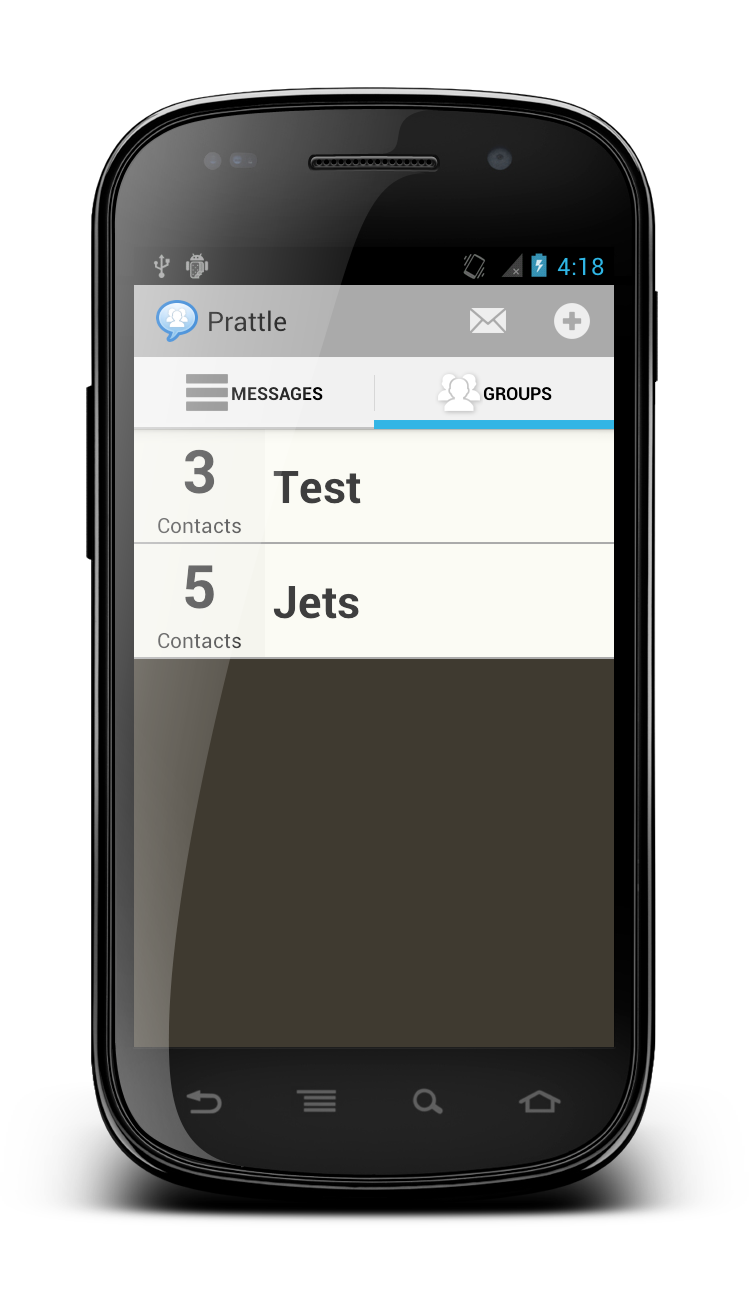
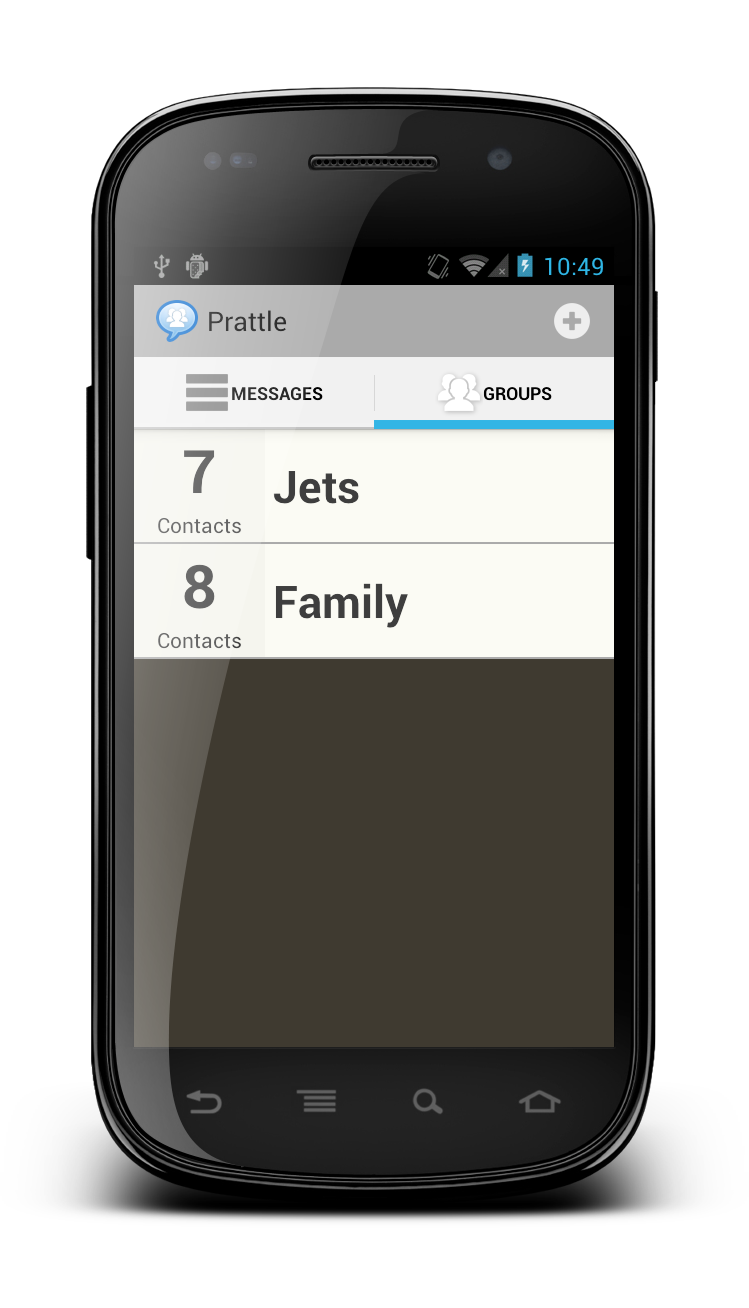
Update message list to sort message in descending order and take top 20 Removed action item for new message.  Force user to select a group and create new message from context menu. Updated screenshots

diff --git a/src/Resources/Resource.designer.cs b/src/Resources/Resource.designer.cs
@@ -115,11 +115,11 @@ namespace Prattle
 			// aapt resource value: 0x7f070008
 			public const int dayOfMonth = 2131165192;
 			
-			// aapt resource value: 0x7f070017
-			public const int deleteSMS = 2131165207;
-			
 			// aapt resource value: 0x7f070016
-			public const int editSMS = 2131165206;
+			public const int deleteSMS = 2131165206;
+			
+			// aapt resource value: 0x7f070015
+			public const int editSMS = 2131165205;
 			
 			// aapt resource value: 0x7f07000e
 			public const int envelope = 2131165198;
@@ -139,14 +139,11 @@ namespace Prattle
 			// aapt resource value: 0x7f070010
 			public const int menuCancelEdit = 2131165200;
 			
-			// aapt resource value: 0x7f070014
-			public const int menuCancelMessage = 2131165204;
-			
 			// aapt resource value: 0x7f070013
-			public const int menuCreateGroup = 2131165203;
+			public const int menuCancelMessage = 2131165203;
 			
 			// aapt resource value: 0x7f070012
-			public const int menuCreateMessage = 2131165202;
+			public const int menuCreateGroup = 2131165202;
 			
 			// aapt resource value: 0x7f070011
 			public const int menuSaveGroup = 2131165201;
@@ -169,8 +166,8 @@ namespace Prattle
 			// aapt resource value: 0x7f07000d
 			public const int recipients = 2131165197;
 			
-			// aapt resource value: 0x7f070015
-			public const int sendSMS = 2131165205;
+			// aapt resource value: 0x7f070014
+			public const int sendSMS = 2131165204;
 			
 			// aapt resource value: 0x7f070002
 			public const int smsContainer = 2131165186;
@@ -241,11 +238,11 @@ namespace Prattle
 		public partial class String
 		{
 			
-			// aapt resource value: 0x7f040001
-			public const int app_name = 2130968577;
-			
 			// aapt resource value: 0x7f040000
-			public const int hello = 2130968576;
+			public const int app_name = 2130968576;
+			
+			// aapt resource value: 0x7f040001
+			public const int splash_title = 2130968577;
 			
 			private String()
 			{

diff --git a/src/Fragments/SMSHistoryFragment.cs b/src/Fragments/SMSHistoryFragment.cs
@@ -28,10 +28,10 @@ namespace Prattle
 			var messages = _messageRepo.GetAll ();
 			var smsGroups = _smsRepo.GetAll ();
 			
-			//join messages to groups to get the linked smsGroup
+			//join messages to groups to get the sms group name
 			var items = from message in messages
 						join smsGroup in smsGroups
-						on message.SMSGroupId equals smsGroup.Id
+						on message.SmsGroupId equals smsGroup.Id
 						select new 
 						{
 							SmsGroup = smsGroup,
@@ -50,7 +50,9 @@ namespace Prattle
 								RecipientCount = g.Count()
 							};
 			
-			ListAdapter = new MessageListAdapter(Activity, summary.ToList ());
+			//sort the summaries and display the top 20
+			var sortedItems = summary.OrderByDescending (message => message.DateSent).Take(20);
+			ListAdapter = new MessageListAdapter(Activity, sortedItems.ToList());
 		}
 		
 		public override View OnCreateView (LayoutInflater inflater, ViewGroup container, Bundle savedInstanceState)

diff --git a/src/Activities/SendMessageActivity.cs b/src/Activities/SendMessageActivity.cs
@@ -133,12 +133,13 @@ namespace Prattle
 			try 
 			{
 				var messageText = FindViewById<EditText>(Resource.Id.message).Text;
+				var dateSent = DateTime.Now;
 				_recipients.ForEach (recipient => {
 					var message = new SmsMessage{
 						Text = messageText,
-						SMSGroupId = _smsGroup.Id,
+						SmsGroupId = _smsGroup.Id,
 						ContactAddressBookId = recipient.AddressBookId,
-						SentDate = DateTime.Now
+						SentDate = dateSent
 					};
 					_messageRepo = new Repository<SmsMessage>();
 					_messageRepo.Save (message);

diff --git a/src/Views/MessageListAdapter.cs b/src/Views/MessageListAdapter.cs
@@ -51,6 +51,7 @@ namespace Prattle
 			view.FindViewById<TextView>(Resource.Id.recipientCount).Text = string.Format ("{0} recipients", message.RecipientCount);
 			view.FindViewById <TextView>(Resource.Id.dayOfMonth).Text = message.DateSent.Day.ToString ();
 			view.FindViewById<TextView>(Resource.Id.month).Text = message.DateSent.ToString ("MMM");
+			
 			view.FindViewById<TextView>(Resource.Id.message).Text = message.Text.Length > 50 ? 
 				String.Concat (message.Text.Substring (0, 50), "...") :
 				message.Text;

diff --git a/src/Activities/MainActivity.cs b/src/Activities/MainActivity.cs
@@ -57,6 +57,8 @@ namespace Prattle
 		public override bool OnOptionsItemSelected (IMenuItem item)
 		{
 			switch (item.ItemId) {
+				case Resource.Id.sendSMS:
+					break;
 				case Resource.Id.menuCreateGroup:
 					var groupName = new EditText(this);
 					new AlertDialog.Builder(this)

diff --git a/src/Prattle.Android.Core/SmsMessage.cs b/src/Prattle.Android.Core/SmsMessage.cs
@@ -10,7 +10,7 @@ namespace Prattle.Android.Core
 		{ }
 		
 		public string Text { get; set; }
-		public int SMSGroupId { get; set; }
+		public int SmsGroupId { get; set; }
 		public string ContactAddressBookId { get; set; }
 		public DateTime SentDate { get; set; }
 	}

diff --git a/src/Prattle.Domain/ISMSMessage.cs b/src/Prattle.Domain/ISMSMessage.cs
@@ -6,7 +6,7 @@ namespace Prattle.Domain
 	{
 		int Id { get; set; }
 		string Text { get; set; }
-		int SMSGroupId { get; set; }
+		int SmsGroupId { get; set; }
 		string ContactAddressBookId { get;set; }
 		DateTime SentDate { get; set; }
 	}
